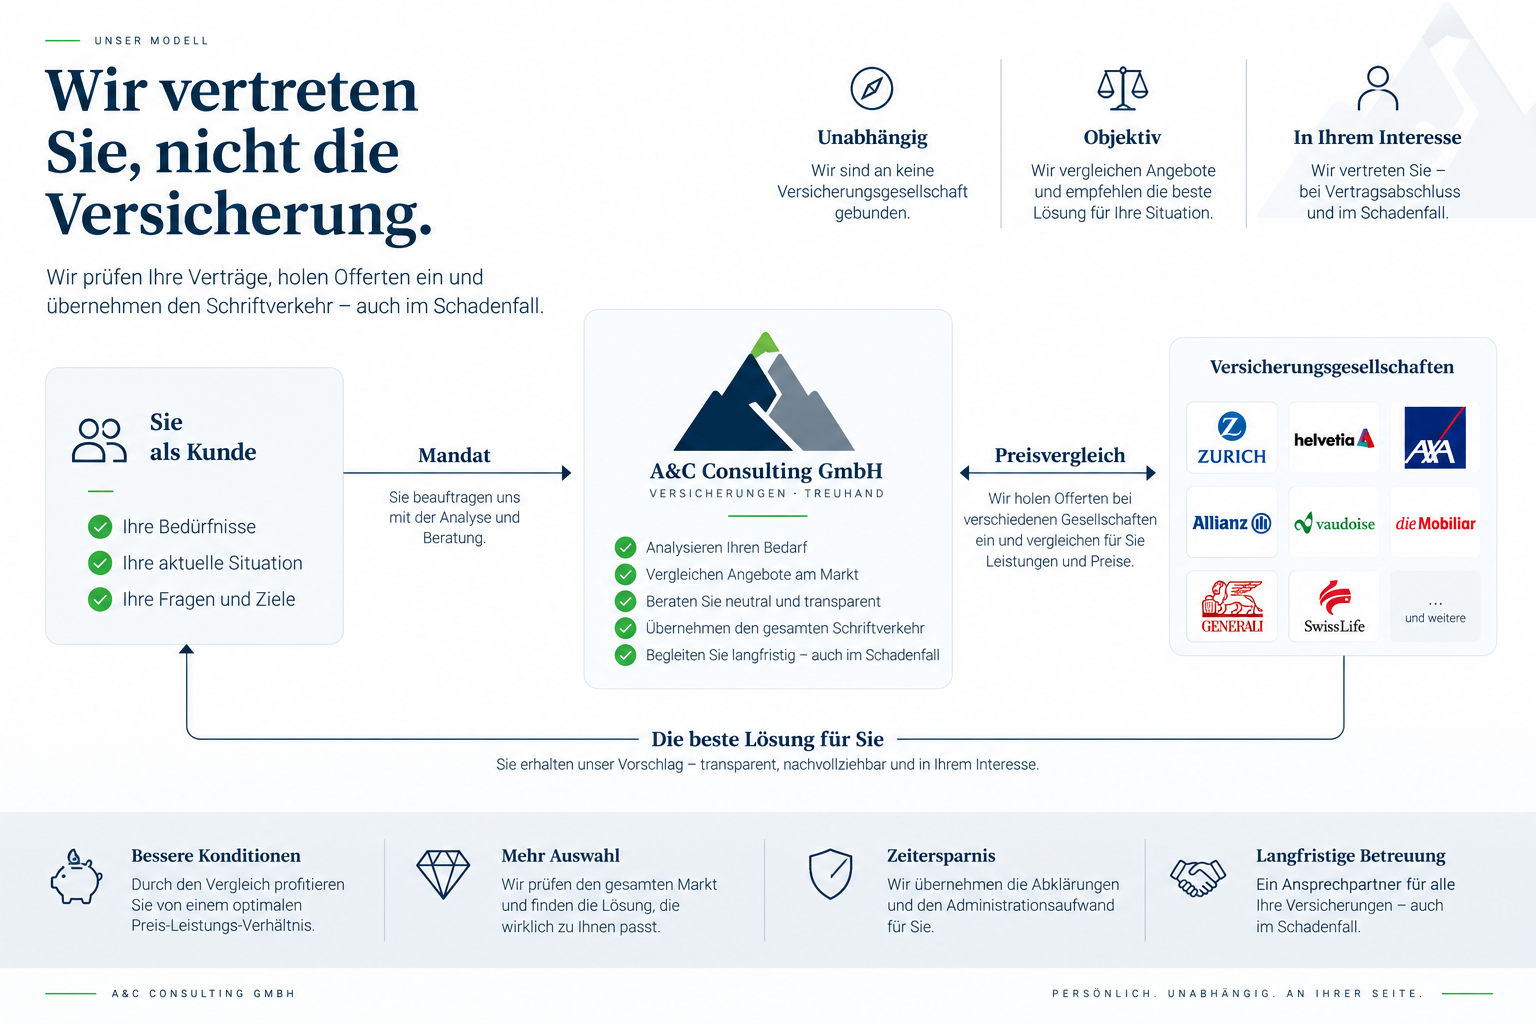
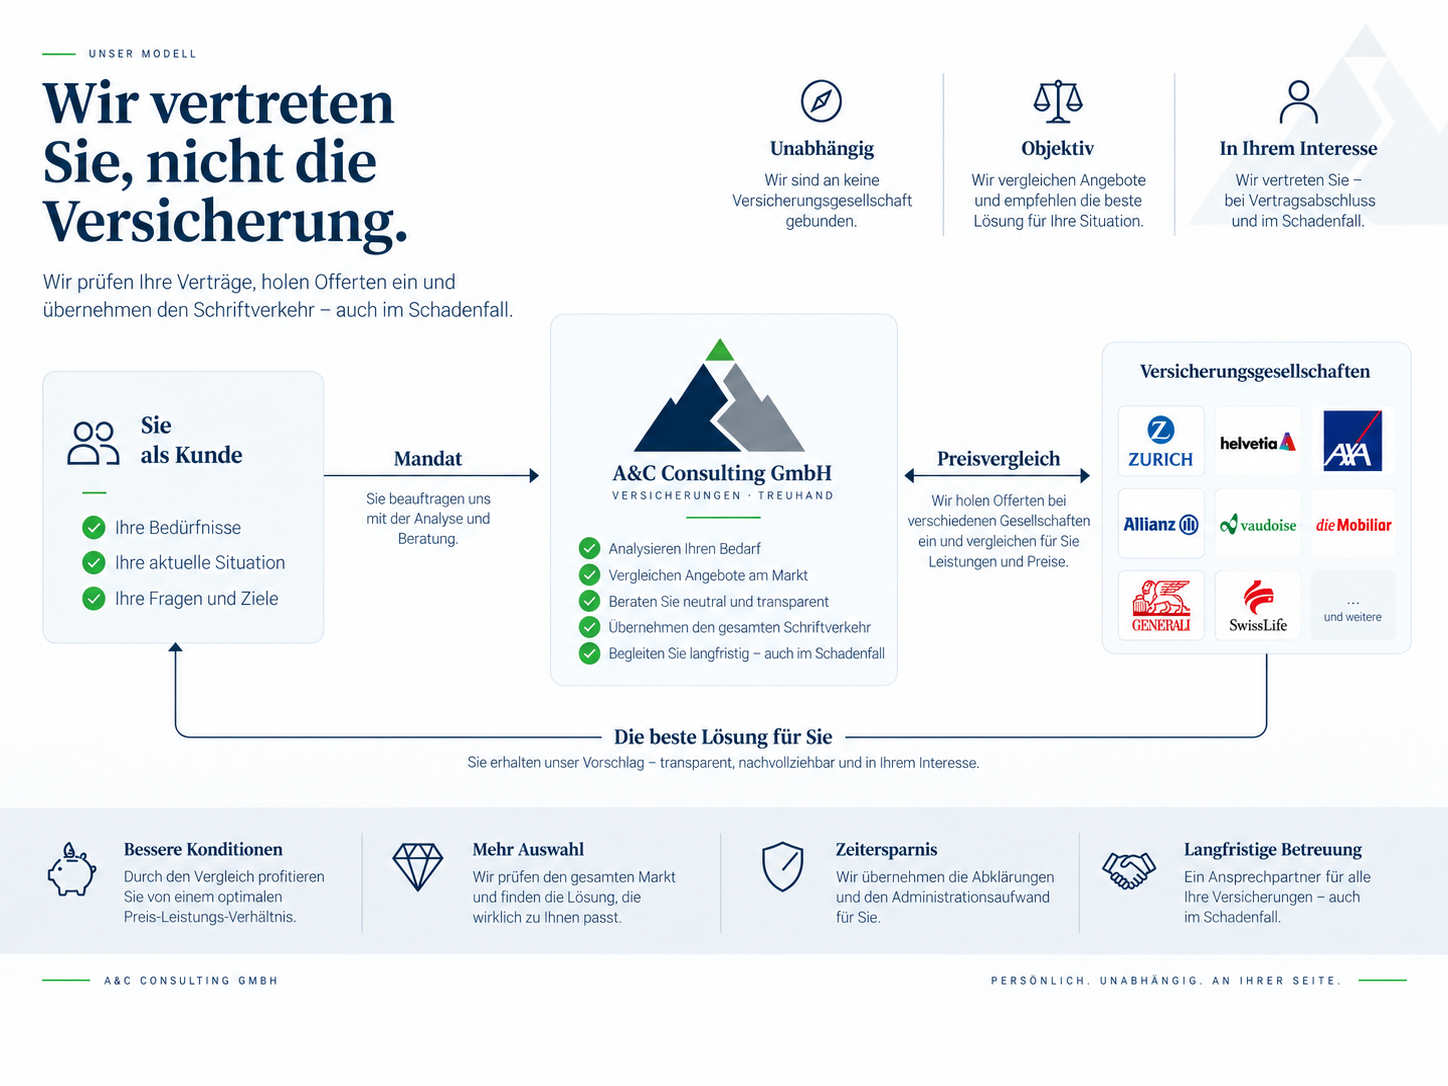
Ersetze die Modellgrafik durch die freigegebene Fassung
Die bisherige Fassung trug eine falsche Bildmarke: Die gruene Spitze sass
neben dem Navy-Berg statt auf ihm, und der Gipfel war eingekerbt. Ricardo hat
das erkannt und den Ablageort der freigegebenen Datei genannt.

Uebernommen aus dem Assets-Ordner, 1448 x 1086 statt 1536 x 1024. Format und
Seitenverhaeltnis aendern sich damit von 3:2 auf 4:3; die Masse im Inhalt sind
nachgezogen, damit der Platz vor dem Laden stimmt.

Ausgeliefert wird wieder WebP bei Qualitaet 90: 1479 KB werden zu 141 KB.

diff --git a/src/content/pages/versicherungen.ts b/src/content/pages/versicherungen.ts
@@ -58,8 +58,8 @@ export const versicherungen: PageContent = {
       id: 'modell',
       src: '/bilder/unser-modell.webp',
       alt: 'Schaubild „Unser Modell": Der Kunde erteilt A&C Consulting ein Mandat. A&C analysiert den Bedarf, vergleicht Angebote am Markt, berät, übernimmt den Schriftverkehr und begleitet langfristig. Für den Preisvergleich holt A&C Offerten bei verschiedenen Versicherungsgesellschaften ein. Zurück zum Kunden geht ein transparenter Vorschlag.',
-      breite: 1536,
-      hoehe: 1024,
+      breite: 1448,
+      hoehe: 1086,
       lesbarAb: 720,
     },
 

diff --git a/bilder-quelle/README.md b/bilder-quelle/README.md
@@ -7,8 +7,12 @@ Sie ist bei gleicher Groesse rund ein Zehntel so schwer:
 
 | Datei | PNG | WebP (q90) |
 |---|---|---|
-| `unser-modell` | 1393 KB | 150 KB |
+| `unser-modell` | 1479 KB | 141 KB |
 | `startseite-seeland` | 1864 KB | 177 KB |
+
+`unser-modell` wurde am 09.09.2026 ausgetauscht: Die vorherige Fassung trug
+eine falsche Bildmarke — die gruene Spitze sass neben dem Navy-Berg statt auf
+ihm. Verbindlich ist die von Ricardo freigegebene Fassung, 1448 x 1086.
 
 Die Originale bleiben liegen, weil sie die Quelle sind: Aus ihnen wird die
 ausgelieferte Fassung erzeugt, nie umgekehrt. Wer eine neue Fassung eines
